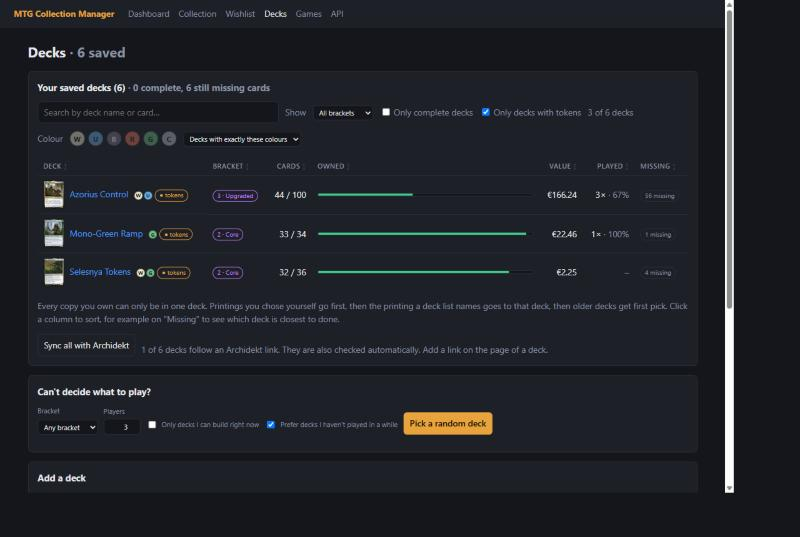
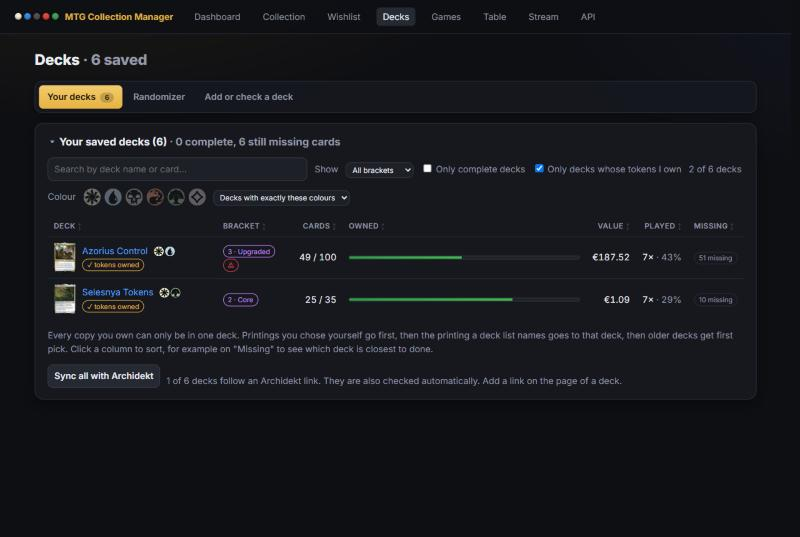
Decks: "Has tokens" becomes "Tokens owned"
- The box on a deck marks that you own its tokens: "Tokens owned", with a "tokens owned" badge and
  an "Only decks whose tokens I own" filter in the list of decks
- Adding tokens to a deck's list (by hand or "Take over all") no longer ticks the box
- README: screenshots of the deck page and the filter

diff --git a/app/templates/deck.html b/app/templates/deck.html
@@ -76,8 +76,8 @@
       </select>
     </label>
     <input type="hidden" name="tokens_shown" value="1" form="deck-form">
-    <label class="token-toggle {{ 'on' if uses_tokens }}" title="Tick when this deck has tokens, so you know to bring them">
-      <input type="checkbox" name="uses_tokens" form="deck-form" {{ 'checked' if uses_tokens }}>Has tokens</label>
+    <label class="token-toggle {{ 'on' if uses_tokens }}" title="Tick when you have the tokens this deck needs">
+      <input type="checkbox" name="uses_tokens" form="deck-form" {{ 'checked' if uses_tokens }}>Tokens owned</label>
     <button form="deck-form" class="deck-save small">Save changes</button>
   </div>
   <div class="actions deck-tools">
@@ -119,7 +119,7 @@
       {% if summaries | selectattr('deck.bracket', 'none') | list %}<option value="none">No bracket</option>{% endif %}
     </select>
     <label class="check muted"><input id="deck-complete-filter" type="checkbox">&nbsp;Only complete decks</label>
-    <label class="check muted"><input id="deck-tokens-filter" type="checkbox">&nbsp;Only decks with tokens</label>
+    <label class="check muted"><input id="deck-tokens-filter" type="checkbox">&nbsp;Only decks whose tokens I own</label>
     <span id="deck-filter-count" class="muted"></span>
   </div>
   <div class="toolbar search-bar color-bar">
@@ -151,7 +151,7 @@
         <div><a href="/decks/{{ s.deck.id }}">{{ s.deck.name }}</a>
         {{ pips(s.deck.colors) }}
         <div class="muted small deck-hit" hidden></div>{% if s.deck.archidekt_id %} <span class="badge linked" title="Follows its deck on Archidekt">↻ Archidekt</span>{% endif %}
-        {% if s.uses_tokens %}<span class="badge tokens" title="This deck has tokens{% if s.tokens %}: {{ s.tokens }} in its deck list{% endif %}">● tokens</span>{% endif %}</div></td>
+        {% if s.uses_tokens %}<span class="badge tokens" title="You have the tokens of this deck{% if s.tokens %} ({{ s.tokens }} on its list){% endif %}">✓ tokens owned</span>{% endif %}</div></td>
       {% set warning = (bracket_warnings | default({})).get(s.deck.id) %}
       <td>{% if s.bracket_name %}<span class="badge bracket">{{ s.deck.bracket }} · {{ s.bracket_name }}</span>{% else %}<span class="muted">–</span>{% endif %}
         {% if warning %}<a class="badge warn" href="/decks/{{ s.deck.id }}" title="Does not fit bracket {{ s.deck.bracket }}: {{ warning | join('; ') }}">⚠</a>{% endif %}</td>

diff --git a/tests/test_api.py b/tests/test_api.py
@@ -544,7 +544,7 @@ def test_mark_a_deck_as_using_tokens(client):
     client.put(f"/api/decks/{with_tokens['id']}/tokens", json={"uses_tokens": None})
     assert tokens()["Rabbits"] == (True, 3)
 
-    # The "Has tokens" box on the deck page is saved with the other changes.
+    # The "Tokens owned" box on the deck page is saved with the other changes.
     client.post(f"/decks/{plain['id']}/save", data={"tokens_shown": "1"})  # unticked
     assert tokens()["Plain"] == (False, 0)
     client.post(f"/decks/{plain['id']}/save", data={"tokens_shown": "1", "uses_tokens": "on"})
@@ -553,4 +553,10 @@ def test_mark_a_deck_as_using_tokens(client):
     assert 'name="uses_tokens" form="deck-form" checked' in page
 
     overview = client.get("/deck").text
-    assert overview.count("● tokens</span>") == 2 and 'id="deck-tokens-filter"' in overview
+    assert overview.count("✓ tokens owned</span>") == 2 and 'id="deck-tokens-filter"' in overview
+    assert "Tokens owned</label>" in page and "Only decks whose tokens I own" in overview
+
+    # Putting a token on the list does not tick the box: listing a token is not owning it.
+    client.post(f"/decks/{plain['id']}/save", data={"tokens_shown": "1"})
+    client.post(f"/decks/{plain['id']}/tokens", data={"name": "Treasure", "quantity": 2})
+    assert tokens()["Plain"] == (False, 2)

diff --git a/app/services/decks.py b/app/services/decks.py
@@ -756,10 +756,7 @@ def add_token(session: Session, deck: Deck, name: str, quantity: int = 1) -> Dec
     token.quantity += quantity
     session.add(token)
     session.flush()
-    _count_named_tokens(session, deck)
-    if deck.uses_tokens is False:
-        deck.uses_tokens = None  # it has tokens now
-        session.add(deck)
+    _count_named_tokens(session, deck)  # "Tokens owned" stays as you set it: listing a token is not owning it
     return token
 
 

diff --git a/app/services/deck_insights.py b/app/services/deck_insights.py
@@ -348,10 +348,7 @@ def apply_token_suggestions(session: Session, deck: Deck, scryfall_id: str | Non
         changed += 1
     if changed:
         session.flush()
-        _count_named_tokens(session, deck)
-        if deck.uses_tokens is False:
-            deck.uses_tokens = None  # it has tokens now
-            session.add(deck)
+        _count_named_tokens(session, deck)  # "Tokens owned" stays as you set it
         session.flush()
     return changed
 

diff --git a/README.md b/README.md
@@ -66,7 +66,7 @@ Press **▶ Play** on a deck and the stream screen opens with every token that d
 
 ![Searching the saved decks for a card: every deck that runs Sol Ring, with the matching card under its name](docs/decks-search.jpg)
 
-![Only the decks with tokens: the decks marked "tokens", so you know which ones need tokens at the table](docs/decks-tokens.jpg)
+![Only the decks whose tokens you own: the decks marked "tokens owned", ready to play](docs/decks-tokens.jpg)
 
 ![The saved decks filtered on bracket 3: two of the six decks are left](docs/decks-filter.jpg)
 
@@ -74,7 +74,7 @@ Press **▶ Play** on a deck and the stream screen opens with every token that d
 
 ![The saved decks sorted on missing cards: the decks closest to done first](docs/decks-sorted.jpg)
 
-![A saved deck: its commander, bracket and "Has tokens", an overview of cards, value, deck size and games, and tabs for its cards, analysis, improvements, lands and tokens, games and value, and Archidekt](docs/deck.jpg)
+![A saved deck: its commander, bracket and "Tokens owned", an overview of cards, value, deck size and games, and tabs for its cards, analysis, improvements, lands and tokens, games and value, and Archidekt](docs/deck.jpg)
 
 ![The Analysis tab of a deck: mana curve and card types, then the bracket check and the combos](docs/deck-analysis.jpg)
 
@@ -217,7 +217,7 @@ Press **▶ Play** on a deck and the stream screen opens with every token that d
 - One "Save changes" button per deck: bracket, basic lands and chosen printings are edited freely and stored together, with a reminder while there are unsaved changes
 - Commander bracket per deck: taken from Archidekt when the deck has one, and changeable at any time
 - Filter the list of saved decks by bracket, or show only the decks that are complete
-- "Has tokens" on a deck: a deck whose list has tokens is marked by itself, and you can tick or untick it on the deck page. The saved decks show a "tokens" badge and can be filtered on it, so you know which decks need tokens at the table
+- "Tokens owned" on a deck: tick it when you have the tokens the deck needs. Until you set it, a deck whose list has tokens counts as ticked; adding tokens to its list never ticks it for you. The saved decks show a "tokens owned" badge and can be filtered on it, so you know which decks are ready to play
 - Search the saved decks on deck name or on a card: "arcane signet" lists every deck that runs it, with the matching cards under the deck name
 - Filter the saved decks on colour: every deck shows the colour identity of its cards, and you pick decks with exactly, any of, or within the chosen colours
 - Sort the saved decks by how many cards they still miss, or by name, bracket, size, progress or value
@@ -328,7 +328,7 @@ product page. Two things to know:
 | `POST` | `/api/decks/{id}/cards/{entry_id}/new-copy` | Put a new copy from an import, that waits to be sorted, in this deck |
 | `POST` | `/api/collection/let-app-sort` | Let the app share out the new copies from imports over the decks (`?entry_id=` for one card) |
 | `PUT` | `/api/decks/{id}/basic-lands` | Set how many of each basic land a deck runs |
-| `PUT` | `/api/decks/{id}/tokens` | Mark a deck as one that has tokens, or not (`null` follows the deck list) |
+| `PUT` | `/api/decks/{id}/tokens` | Mark that you own the tokens of a deck, or not (`null` follows the deck list) |
 | `PUT` | `/api/decks/{id}/commander` | Choose the commander of a deck (a card in it), or `null` for none |
 | `GET` | `/api/decks/{id}/value-history` | What the copies in a deck were worth on every day with prices |
 | `GET` / `POST` | `/api/games` | The game log (`?deck_id=` for one deck) / log a game |
